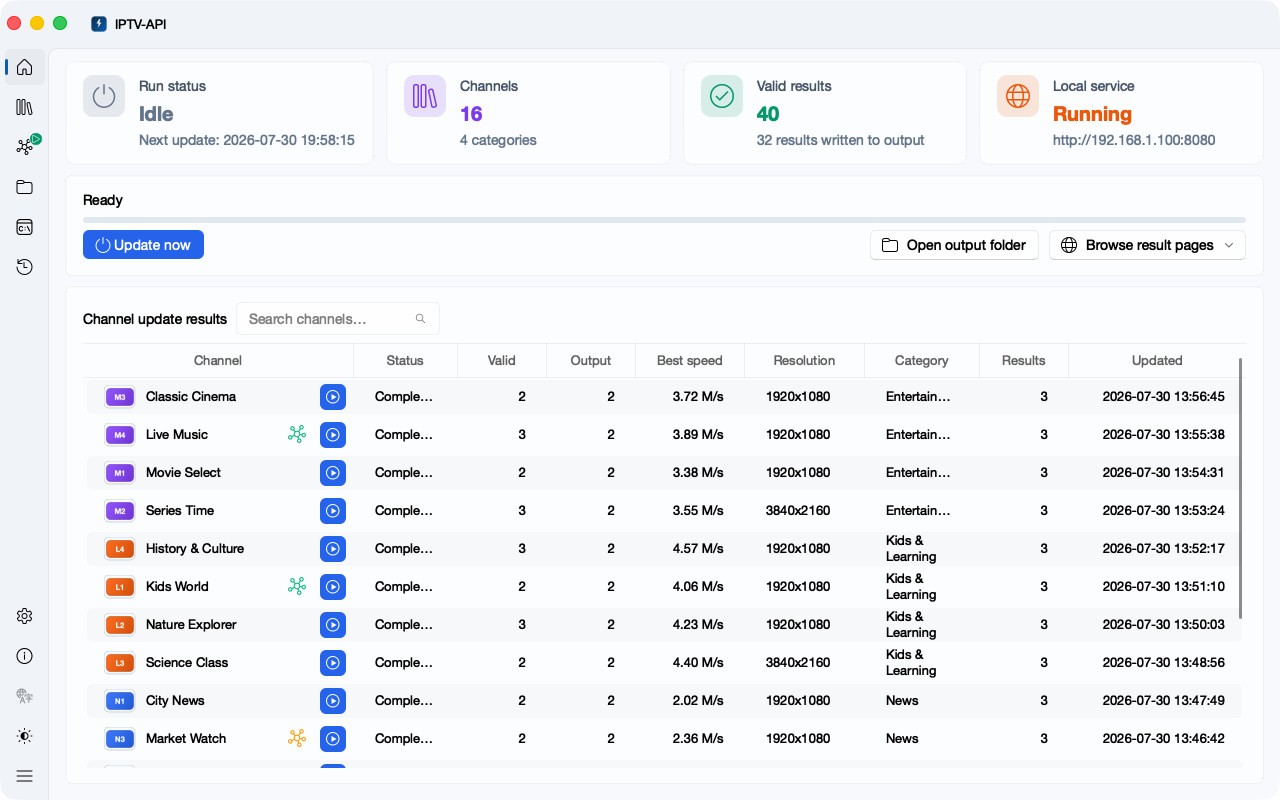
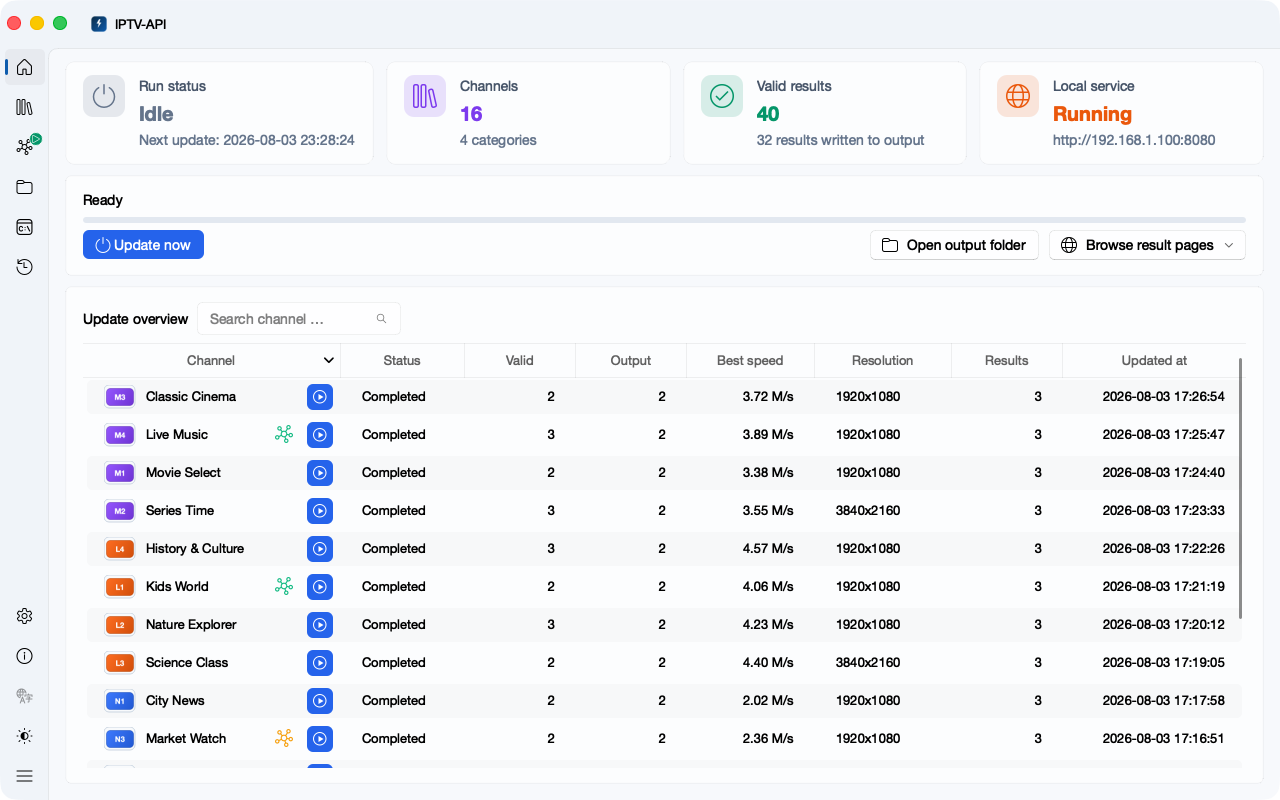
feat: refine GUI channel tables

diff --git a/tests/test_channel_center.py b/tests/test_channel_center.py
@@ -175,15 +175,15 @@ class ChannelCenterViewTests(unittest.TestCase):
             "appearance/channel_result_drawer_height"
         )
         self.previous_channel_header_state = self.settings.value(
-            "appearance/table_headers/channel_center.channels"
+            "appearance/table_headers/channel_center.channels.v2"
         )
         self.previous_channel_column_weights = self.settings.value(
-            "appearance/table_column_weights/channel_center.channels"
+            "appearance/table_column_weights/channel_center.channels.v2"
         )
         self.settings.setValue("appearance/channel_center_view", "category")
         self.settings.setValue("appearance/channel_result_drawer_height", 360)
-        self.settings.remove("appearance/table_headers/channel_center.channels")
-        self.settings.remove("appearance/table_column_weights/channel_center.channels")
+        self.settings.remove("appearance/table_headers/channel_center.channels.v2")
+        self.settings.remove("appearance/table_column_weights/channel_center.channels.v2")
         self.addCleanup(self._restore_settings)
 
     def _restore_settings(self):
@@ -200,11 +200,11 @@ class ChannelCenterViewTests(unittest.TestCase):
             )
         for key, value in (
             (
-                "appearance/table_headers/channel_center.channels",
+                "appearance/table_headers/channel_center.channels.v2",
                 self.previous_channel_header_state,
             ),
             (
-                "appearance/table_column_weights/channel_center.channels",
+                "appearance/table_column_weights/channel_center.channels.v2",
                 self.previous_channel_column_weights,
             ),
         ):
@@ -226,7 +226,21 @@ class ChannelCenterViewTests(unittest.TestCase):
             self.assertEqual(list(page.view_switch.items), ["category", "list"])
             self.assertEqual(page.view_switch.currentRouteKey(), "category")
             self.assertFalse(page.category_sidebar.isHidden())
-            self.assertTrue(page.channel_table.isColumnHidden(8))
+            self.assertTrue(page.channel_table.isColumnHidden(5))
+            self.assertEqual(
+                [column[0] for column in page.channel_model.columns],
+                [
+                    "batch_selected",
+                    "name",
+                    "health",
+                    "valid_results",
+                    "total_results",
+                    "category",
+                    "whitelist_count",
+                    "blacklist_count",
+                    "updated_at",
+                ],
+            )
             self.assertEqual(page.category_tree.topLevelItemCount(), 3)
             self.assertEqual(page.smart_tree.topLevelItemCount(), 5)
             self.assertEqual(
@@ -261,7 +275,7 @@ class ChannelCenterViewTests(unittest.TestCase):
 
             page._set_view_mode("list")
             self.assertTrue(page.category_sidebar.isHidden())
-            self.assertFalse(page.channel_table.isColumnHidden(8))
+            self.assertFalse(page.channel_table.isColumnHidden(5))
 
     def test_smart_collections_include_healthy_channels(self):
         connection = sqlite3.connect(self.db_path)

diff --git a/desktop_ui/pages/dashboard.py b/desktop_ui/pages/dashboard.py
@@ -211,7 +211,7 @@ class DashboardPage(QWidget):
         channel_layout.setSpacing(8)
         self.channels_title = BodyLabel(t("desktop.channel_result_status"), self.channels_card)
         self.channel_search = AppSearchLineEdit(self.channels_card)
-        self.channel_search.setPlaceholderText(t("desktop.search_channels"))
+        self.channel_search.setPlaceholderText(t("desktop.search_channel_names"))
         self.channel_model = ChannelTableModel(self._channel_columns(), self, logo_loader=logo_loader)
         self.logo_loader = self.channel_model.logo_loader
         self.channel_table = TableView(self.channels_card)
@@ -220,7 +220,7 @@ class DashboardPage(QWidget):
         self.channel_table.setSelectionMode(QAbstractItemView.SelectionMode.SingleSelection)
         self.channel_table.setSortingEnabled(True)
         self.channel_table.verticalHeader().setVisible(False)
-        configure_table_columns(self.channel_table, [260, 100, 85, 85, 105, 115, 110, 85, 170], "dashboard.channels")
+        configure_table_columns(self.channel_table, [260, 100, 85, 85, 105, 115, 85, 170], "dashboard.channels.v2")
         self.channel_table.setBorderVisible(False)
         self.channel_table.setIconSize(QSize(32, 24))
         self.play_delegate = ChannelNamePlayDelegate(
@@ -312,7 +312,6 @@ class DashboardPage(QWidget):
             ("selected_results", t("desktop.column_output"), None),
             ("best_speed", t("desktop.column_best_speed"), _speed),
             ("max_resolution", t("desktop.column_resolution"), None),
-            ("category", t("desktop.column_category"), None),
             ("total_results", t("desktop.column_results"), None),
             ("updated_at", t("desktop.column_updated"), _updated_at),
         ]
@@ -339,7 +338,7 @@ class DashboardPage(QWidget):
         term = self.channel_search.text().strip().lower()
         rows = [
             row for row in self._runtime_rows
-            if not term or term in str(row.get("name", "")).lower() or term in str(row.get("category", "")).lower()
+            if not term or term in str(row.get("name", "")).lower()
         ]
         self.channel_model.set_rows(rows)
         self.channel_stack.setCurrentWidget(self.channel_table if rows else self.empty_state)
@@ -615,7 +614,7 @@ class DashboardPage(QWidget):
         self.output_button.setText(t("desktop.open_output"))
         self.service_button.setText(t("desktop.browse_results"))
         self.channels_title.setText(t("desktop.channel_result_status"))
-        self.channel_search.setPlaceholderText(t("desktop.search_channels"))
+        self.channel_search.setPlaceholderText(t("desktop.search_channel_names"))
         self.empty_title.setText(t("desktop.channel_results_empty"))
         self.empty_hint.setText(t("desktop.channel_results_empty_hint"))
         self.configure_sources_button.setText(t("desktop.configure_sources"))

diff --git a/desktop_ui/pages/channels.py b/desktop_ui/pages/channels.py
@@ -279,10 +279,10 @@ class ChannelCenterPage(QWidget):
         self.channel_header.setSortIndicator(1, Qt.SortOrder.AscendingOrder)
         configure_table_columns(
             self.channel_table,
-            [42, 190, 78, 68, 68, 92, 78, 100, 96, 78, 78, 158],
-            "channel_center.channels",
+            [42, 190, 78, 68, 68, 96, 78, 78, 158],
+            "channel_center.channels.v2",
             fixed_widths={0: 42},
-            minimum_widths={1: 175, 2: 68, 3: 58, 4: 58, 7: 90, 11: 158},
+            minimum_widths={1: 175, 2: 68, 3: 58, 4: 58, 5: 90, 8: 158},
         )
         self.channel_table.setIconSize(QSize(32, 24))
         self.channel_table.setItemDelegateForColumn(0, TableCheckBoxDelegate(self.channel_table))
@@ -640,9 +640,6 @@ class ChannelCenterPage(QWidget):
             ("health", t("desktop.status"), _health),
             ("valid_results", t("desktop.column_valid"), None),
             ("total_results", t("desktop.column_results"), None),
-            ("best_speed", t("desktop.column_best_speed"), _speed),
-            ("min_delay", t("desktop.column_delay"), _delay),
-            ("max_resolution", t("desktop.column_resolution"), None),
             ("category", t("desktop.column_category"), None),
             ("whitelist_count", t("desktop.column_whitelist"), None),
             ("blacklist_count", t("desktop.column_blacklist"), None),
@@ -896,7 +893,7 @@ class ChannelCenterPage(QWidget):
         categorized = self._view_mode == "category"
         self.category_selector.setVisible(not categorized)
         self.category_sidebar.setVisible(categorized)
-        self.channel_table.setColumnHidden(8, categorized)
+        self.channel_table.setColumnHidden(5, categorized)
         adaptive_columns = getattr(self.channel_table.horizontalHeader(), "_adaptive_columns", None)
         if adaptive_columns:
             adaptive_columns.fit()

diff --git a/tests/test_empty_data_diagnostics.py b/tests/test_empty_data_diagnostics.py
@@ -146,6 +146,36 @@ class EmptyDataDiagnosticsTests(unittest.TestCase):
         page._apply_runtime_rows()
         self.assertEqual([row["name"] for row in page.channel_model.rows], ["Alpha", "Zulu"])
 
+    def test_dashboard_overview_table_only_searches_channel_names(self):
+        with (
+            patch.object(DashboardPage, "refresh_metrics"),
+            patch.object(DashboardPage, "refresh_schedule"),
+        ):
+            page = DashboardPage()
+        self.addCleanup(page.deleteLater)
+
+        self.assertEqual(
+            [column[0] for column in page.channel_model.columns],
+            [
+                "name",
+                "display_status",
+                "valid_results",
+                "selected_results",
+                "best_speed",
+                "max_resolution",
+                "total_results",
+                "updated_at",
+            ],
+        )
+        self.assertEqual(page.channels_title.text(), t("desktop.channel_result_status"))
+
+        page._runtime_rows = [
+            {"name": "News One", "category": "Sports"},
+            {"name": "Sports One", "category": "News"},
+        ]
+        page.channel_search.setText("sports")
+        self.assertEqual([row["name"] for row in page.channel_model.rows], ["Sports One"])
+
 
 if __name__ == "__main__":
     unittest.main()
